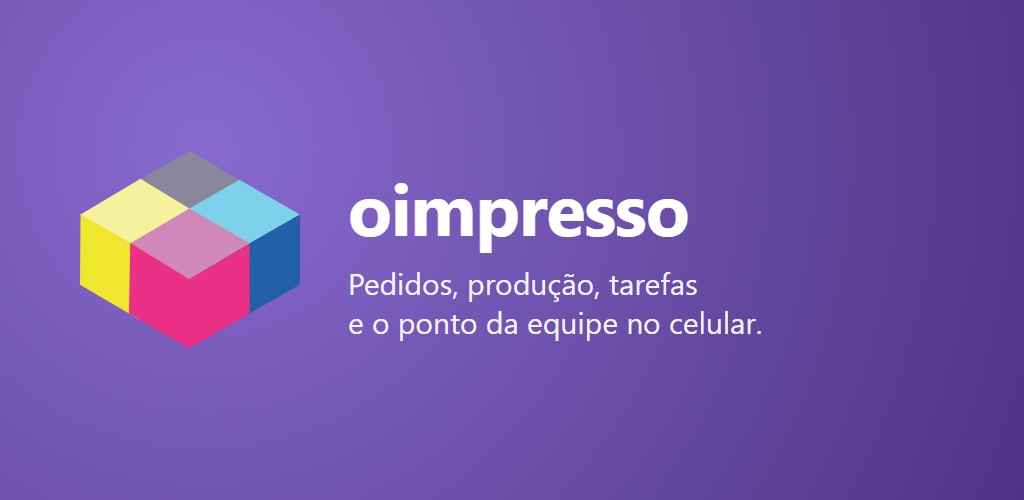
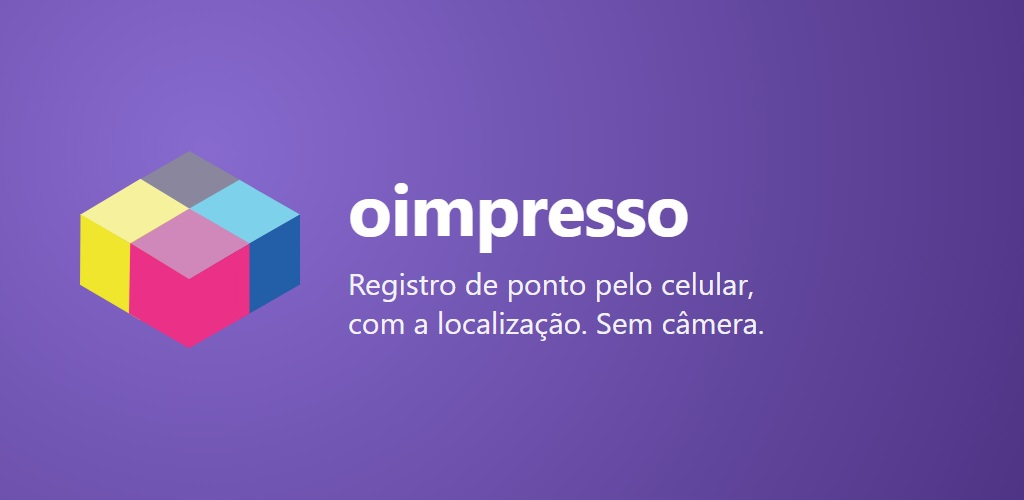
docs(lojas-app): 1ª submissão descreve só o que o app tem (ponto); versão completa guardada
Sessão que gerencia o app (2026-10-01): o app tem hoje Login, Início, Ponto (Bater,
Meu espelho, Justificar), Conta e lembrete por push; função ausente na ficha é motivo
de recusa. Textos e Data Safety da 1ª submissão só com o ponto; versões completas em
*-completa.md. D5 com a ordem das 3 decisões do dia; banner só do ponto.

Changed region(s): [[0.3438, 0.63, 0.75, 0.69], [0.3438, 0.54, 0.75, 0.6]]

diff --git a/docs/lojas-app/textos/listagem-pt-BR.md b/docs/lojas-app/textos/listagem-pt-BR.md
@@ -1,52 +1,48 @@
-# oimpresso — textos das lojas (pt-BR) · RASCUNHO para [W] revisar
+# oimpresso — textos das lojas (pt-BR) · 1ª SUBMISSÃO · RASCUNHO para [W] revisar
 
-> Escopo decidido por [W] em 2026-10-01: **um app só**, o ERP no celular **junto com o ponto** (`com.oimpresso.app`).
-> Base decidida por [W] (2026-10-01, coordenação): **Capacitor** (decisões vigentes em [`../DECISOES.md`](../DECISOES.md)); o Expo de `mobile/` fica fora das lojas.
-> **O que o app mostra (D5 em [`../DECISOES.md`](../DECISOES.md)):** telas próprias no `oimpresso-app`, visual do protótipo
-> Mobile (v1: Início, Tarefas, Pedidos, Produção, Pessoas, Ponto, Mais). Textos descrevem só essas funções — **não**
-> prometer Venda rápida, Finanças, OS, Estoque nem Fiscal até existirem no app.
-> ⚠ Levantamento legal (#8417): até INPI e certificado ICP-Brasil, **não** anunciar "REP-P", "REP" nem "registrador oficial" —
-> usar "registro de ponto do oimpresso". Limites conferidos em 2026-10-01 (Play Console Help + App Store Connect).
-> Não usar "certificado", "homologado" nem "assinado" até a sessão LEGAL confirmar (ADR 0413 tirou "assinada").
-> Só listar o que o build enviado faz de verdade — se o ponto ainda não estiver no build, tirar o bloco do ponto.
+> **Escopo da 1ª submissão = o que o app tem hoje** (sessão que gerencia o app, 2026-10-01): Login, Início (escala do
+> dia + indicadores do ponto), Ponto (Bater · Meu espelho · Justificar) e Conta, mais o lembrete de bater ponto (push).
+> Texto de loja que promete função ausente é motivo de recusa. A versão com Tarefas, Pedidos, Produção e Pessoas
+> fica em [`listagem-pt-BR-completa.md`](listagem-pt-BR-completa.md) para quando essas telas entrarem no app.
+> Decisões em [`../DECISOES.md`](../DECISOES.md). Sem "REP-P", "REP" nem "registrador oficial" (D9).
+> Limites conferidos em 2026-10-01 (Play Console Help + App Store Connect).
 
 ## Comum
-- **Nome do app:** `oimpresso` (9/30) — **decidido por [W] em 2026-10-01: "oimpresso nos dois"** (loja e aparelho). Reserva, só com ok [W], se o nome estiver ocupado na Apple: `oimpresso ERP` (13/30)
+- **Nome do app:** `oimpresso` (9/30) — decidido por [W] em 2026-10-01: "oimpresso nos dois".
 - **Categoria:** Negócios (Play: Business · Apple: primária Business, secundária Productivity)
 - **Público:** adultos, uso profissional (B2B). Sem anúncios. Sem compras no app.
 - **Login exigido:** sim — conta criada pela empresa. Sem cadastro aberto.
 
 ## Google Play
 - **Título:** `oimpresso` (9/30)
-- **Descrição curta:** `Pedidos, produção, tarefas, pessoas e ponto da sua empresa no celular.` (70/80)
+- **Descrição curta:** `Registro de ponto pelo celular, com a localização, no sistema da sua empresa.` (77/80)
 - **Descrição completa (≤4000):**
 
-O oimpresso leva para o celular o essencial do sistema da sua empresa: acompanhe pedidos e produção, resolva as tarefas do dia, consulte clientes e fornecedores, e registre o ponto com a localização do aparelho.
+O oimpresso é o registro de ponto pelo celular para quem trabalha em empresas que usam o sistema oimpresso.
 
-Gestão no celular:
-• Início — o resumo do dia da sua empresa.
-• Tarefas — as pendências que chegam de todos os setores, numa caixa só.
-• Pedidos — consulte e acompanhe cada pedido e a etapa em que está.
-• Produção — veja a fila de produção e o andamento de cada trabalho.
-• Pessoas — clientes, fornecedores e colaboradores num cadastro só.
-
-Registro de ponto do oimpresso:
+Entre com o acesso fornecido pela sua empresa e:
+• Veja no Início a sua escala do dia e o resumo do seu ponto.
 • Bata o ponto: entrada, saída para almoço, retorno e saída. Cada marcação vai com a localização do aparelho no momento do registro e recebe um número sequencial gerado pelo servidor; depois de feita, não pode ser alterada.
-• Veja as marcações de hoje e o seu espelho do mês.
-• Justifique uma falta ou esquecimento — o pedido vai para o seu gestor.
-• A localização é lida só quando você bate o ponto, com o app aberto. Sem rastreamento em segundo plano. Sem câmera e sem biometria no ponto.
+• Consulte o seu espelho do mês: horas trabalhadas e o dia a dia.
+• Justifique uma falta, atraso ou esquecimento — o pedido vai para aprovação do seu gestor.
+• Receba um lembrete na hora de bater o ponto.
 
-Para quem é: empresas clientes do oimpresso e seus colaboradores. O acesso é liberado pela empresa; não é possível criar conta pelo app. Cada pessoa vê só o que o seu perfil permite.
+Privacidade e transparência:
+• A localização é lida somente no momento em que você bate o ponto, com o app aberto. Não há rastreamento em segundo plano.
+• O app não usa câmera, foto nem biometria.
+• Se o sinal de GPS estiver fraco, o app pede que você vá para uma área aberta em vez de registrar uma posição imprecisa.
+
+Para quem é: colaboradores de empresas clientes do oimpresso. O acesso é liberado pela empresa; não é possível criar conta pelo app.
 
 ## Apple App Store
 - **Nome:** `oimpresso` (9/30)
-- **Subtítulo (30):** `Pedidos, produção e ponto` (25/30)
-- **Texto promocional (170):** `Pedidos, produção, tarefas e o ponto dos colaboradores no mesmo app. Ponto com localização, sem câmera e sem biometria.` (119/170)
-- **Palavras-chave (100):** `ERP,gestão,pedidos,produção,tarefas,clientes,fornecedores,ponto,jornada,gráfica,equipe` (86/100)
+- **Subtítulo (30):** `Ponto da equipe no celular` (26/30)
+- **Texto promocional (170):** `Bata o ponto com a localização do aparelho, veja o espelho do mês e justifique ausências. Sem câmera e sem biometria.` (117/170)
+- **Palavras-chave (100):** `ponto,registro,jornada,espelho,colaborador,RH,horas,marcação,GPS,funcionário,escala` (83/100)
 - **Descrição:** a mesma da Play acima.
 - **URL de privacidade:** `https://oimpresso.com/privacidade` (#8437)
-- **Informações para revisão:** conta demo da sessão CONTA DEMO (credencial só no campo do console). Nota: "Acesso B2B criado pela empresa. A tela de ponto pede localização; fora do local da empresa a marcação é aceita e sinalizada para o gestor."
+- **Informações para revisão:** contas e instruções em `memory/requisitos/Ponto/REVISAO-LOJAS-NOTAS.md` (credenciais só no campo do console).
 
 ## Classificação etária
-- **Apple (faixas 4+/9+/13+/16+/18+):** "Nenhum" em todo o questionário → **4+**. ⚠ Se a aba **Chat** passar a trocar mensagens entre pessoas, responder "Sim" a comunicação entre usuários (pode subir a faixa) — hoje o chat é com o sistema.
-- **Google (IARC):** "Todos os outros tipos de app"; "Não" a violência, sexo, linguagem, drogas, jogos de azar; "Não" a compartilhar localização com outros usuários (vai só ao empregador); interação entre usuários conforme o Chat acima. Esperado: **Livre (L)**.
+- **Apple (faixas 4+/9+/13+/16+/18+):** "Nenhum" em todo o questionário → **4+**.
+- **Google (IARC):** "Todos os outros tipos de app"; "Não" a violência, sexo, linguagem, drogas, jogos de azar; "Não" a compartilhar localização com outros usuários (vai só ao empregador); "Não" a interação entre usuários. Esperado: **Livre (L)**.

diff --git a/docs/lojas-app/textos/privacidade-lojas.md b/docs/lojas-app/textos/privacidade-lojas.md
@@ -1,54 +1,34 @@
-# oimpresso — Data Safety (Google) e App Privacy (Apple) · RASCUNHO
+# oimpresso — Data Safety (Google) e App Privacy (Apple) · 1ª SUBMISSÃO · RASCUNHO
 
-> App único (decisões em [`../DECISOES.md`](../DECISOES.md)): telas próprias do app (visual do protótipo Mobile) sobre o mesmo backend do ERP, empacotado com **Capacitor** (`com.oimpresso.app`) — decisão [W]
-> 2026-10-01 na coordenação; o Expo de `mobile/` fica fora das lojas. Levantado do código em main (2026-10-01):
-> - Ponto (`MobileMarcacaoController@registrar`): `lat`, `lng`, `accuracy` (não gravada), `device_uuid`, `timestamp_device`.
-> - ERP web: login do oimpresso (sessão), cadastro de clientes (nome, CPF/CNPJ, contato), anexos de OS escolhidos pelo usuário.
-> - App Capacitor medido em 2026-10-01 (repo [`wagnerra23/oimpresso-app`](https://github.com/wagnerra23/oimpresso-app), antes `oimpresso-ponto-app`, package.json + build.gradle, via sessão ANDROID):
->   **sem** Crashlytics/Analytics nem outro SDK de crash ou analytics; push só por FCM (`@capacitor/push-notifications`,
->   token = identificador do aparelho). Permissões: INTERNET, localização aproximada e precisa **só em uso**
->   (sem BACKGROUND), POST_NOTIFICATIONS. Sem CAMERA e sem microfone. Fotos de OS chegam pelo seletor de arquivos do
->   sistema dentro do ERP web (sem permissão de galeria).
-> - Prazo de guarda: sessão LEGAL.
-
-## O que entra
-
-| Dado | Onde | Obrigatório? | Finalidade |
-|---|---|---|---|
-| Localização precisa | ponto, só na batida | sim (para bater ponto) | funcionalidade; prevenção de fraude |
-| ID do aparelho (`device_uuid`) + token de push | ponto; notificações | sim | prevenção de fraude; funcionalidade |
-| Nome, e-mail, ID de usuário | login | sim | funcionalidade; gerenciamento de conta |
-| Dados de clientes da empresa (nome, CPF/CNPJ, telefone, e-mail, endereço) | cadastro de clientes | não (o usuário digita) | funcionalidade |
-| Fotos | anexos de OS, escolhidas pelo usuário | não | funcionalidade |
-| Registros de ponto, justificativas, notas de serviço, tarefas | ponto; OS; tarefas | varia | funcionalidade |
-| Transações da empresa (vendas, pagamentos) | vendas, financeiro | — | dado da empresa, não do usuário — ver nota abaixo |
-
-Tudo é ligado à pessoa, nada é vendido, usado para publicidade ou rastreamento. Os dados vão para o servidor do
-oimpresso (operador) por conta da empresa cliente (controladora). Sem localização em segundo plano.
+> **Só o que o app coleta hoje** (Login, Início, Ponto, Conta + lembrete por push — sessão que gerencia o app,
+> 2026-10-01). Telas próprias no `oimpresso-app` (React empacotado + API Passport do ERP). Quando Tarefas, Pedidos,
+> Produção e Pessoas entrarem, use [`privacidade-lojas-completa.md`](privacidade-lojas-completa.md) e atualize o console
+> **antes** de enviar a versão nova.
+>
+> Medido em 2026-10-01: ponto (`MobileMarcacaoController@registrar`) recebe `lat`, `lng`, `accuracy` (não gravada),
+> `device_uuid`, `timestamp_device`. App Capacitor ([`wagnerra23/oimpresso-app`](https://github.com/wagnerra23/oimpresso-app),
+> via sessão ANDROID): **sem** SDK de crash ou analytics; push só por FCM (token = identificador do aparelho); localização
+> **só em uso**, sem background; **sem** câmera e sem microfone. Prazo de guarda: sessão LEGAL.
 
 ## Google Play — Data Safety (tela a tela)
 1. **Coleta ou compartilha dados?** Sim.
-2. **Criptografado em trânsito?** Sim (HTTPS). **Pedido de exclusão?** Sim — URL da página de exclusão (sessão PRIVACIDADE); declarar que registros de ponto e fiscais são mantidos pelo prazo legal.
+2. **Criptografado em trânsito?** Sim (HTTPS). **Pedido de exclusão?** Sim — `https://oimpresso.com/privacidade/ponto/exclusao`; declarar que registros de ponto são mantidos pelo prazo legal.
 3. **Tipos (todos: Coletado · NÃO compartilhado · não efêmero):**
    - Localização → **Localização precisa** — Obrigatório · Funcionalidade do app; Prevenção de fraude, segurança e conformidade.
    - Informações pessoais → **Nome**, **Endereço de e-mail**, **IDs de usuário** — Obrigatório · Funcionalidade; Gerenciamento de conta.
-   - Informações pessoais → **Número de telefone**, **Endereço**, **Outras informações** (CPF/CNPJ) — Opcional · Funcionalidade (dados dos clientes cadastrados).
-   - Fotos e vídeos → **Fotos** — Opcional · Funcionalidade.
-   - Atividade no app → **Outro conteúdo gerado pelo usuário** (justificativas, notas de OS, tarefas) — Opcional · Funcionalidade.
-   - Identificadores do dispositivo ou outros → **ID do dispositivo** — Obrigatório · Prevenção de fraude; Funcionalidade (push).
-   - Informações financeiras → ⚠ decidir com a sessão LEGAL: vendas e pagamentos são da **empresa**, não do usuário; "Histórico de compras" da Google é do usuário. Recomendação: não marcar, e explicar na política de privacidade.
-4. **Permissões:** `ACCESS_FINE_LOCATION` (sim), `ACCESS_BACKGROUND_LOCATION` (**não**), `POST_NOTIFICATIONS` (sim), `RECORD_AUDIO` (**remover**), `CAMERA` (não usado).
+   - Atividade no app → **Outro conteúdo gerado pelo usuário** (justificativas) — Opcional · Funcionalidade.
+   - Identificadores do dispositivo ou outros → **ID do dispositivo** (identificador do aparelho + token de push) — Obrigatório · Prevenção de fraude; Funcionalidade.
+   - **Não** marcar: fotos, telefone, endereço, informações financeiras, contatos, mensagens, diagnóstico, analytics.
+4. **Permissões:** `ACCESS_FINE_LOCATION` e `ACCESS_COARSE_LOCATION` (sim), `ACCESS_BACKGROUND_LOCATION` (**não**), `POST_NOTIFICATIONS` (sim), sem `CAMERA` e sem `RECORD_AUDIO`.
 
 ## Apple — App Privacy (tela a tela)
 Todos: **Linked to the user** · **Not used for tracking** · finalidade **App Functionality**.
 - Location → **Precise Location**
-- Contact Info → **Name**, **Email Address**, **Phone Number**, **Physical Address**
+- Contact Info → **Name**, **Email Address**
 - Identifiers → **User ID**, **Device ID**
-- User Content → **Photos or Videos**, **Other User Content**
-- Sensitive Info → não marcar (CPF/CNPJ não é "sensível" no sentido Apple: saúde, religião etc.).
+- User Content → **Other User Content** (justificativas)
 - **Tracking (ATT):** não. Sem prompt ATT.
 
-`Info.plist` (via `app.config.ts`, sessão iOS):
+`Info.plist` (projeto `oimpresso-app`):
 - `NSLocationWhenInUseUsageDescription`: "O oimpresso usa a localização somente quando você bate o ponto, para registrar onde a marcação foi feita."
-- `NSPhotoLibraryUsageDescription`: "O oimpresso acessa as suas fotos somente quando você escolhe uma imagem para anexar a uma ordem de serviço."
-- **Remover** `NSMicrophoneUsageDescription` (expo-audio sem uso).
+- Sem `NSPhotoLibraryUsageDescription`, `NSCameraUsageDescription` e `NSMicrophoneUsageDescription` nesta versão.

diff --git a/docs/lojas-app/textos/privacidade-lojas-completa.md b/docs/lojas-app/textos/privacidade-lojas-completa.md
@@ -1,0 +1,57 @@
+# oimpresso — Data Safety e App Privacy · VERSÃO COMPLETA (futura) · RASCUNHO
+
+> ⏸ **Não usar na 1ª submissão** — declara dados de telas que o app ainda não tem. Até lá use
+> [`privacidade-lojas.md`](privacidade-lojas.md).
+
+> App único (decisões em [`../DECISOES.md`](../DECISOES.md)): telas próprias do app (visual do protótipo Mobile) sobre o mesmo backend do ERP, empacotado com **Capacitor** (`com.oimpresso.app`) — decisão [W]
+> 2026-10-01 na coordenação; o Expo de `mobile/` fica fora das lojas. Levantado do código em main (2026-10-01):
+> - Ponto (`MobileMarcacaoController@registrar`): `lat`, `lng`, `accuracy` (não gravada), `device_uuid`, `timestamp_device`.
+> - ERP web: login do oimpresso (sessão), cadastro de clientes (nome, CPF/CNPJ, contato), anexos de OS escolhidos pelo usuário.
+> - App Capacitor medido em 2026-10-01 (repo [`wagnerra23/oimpresso-app`](https://github.com/wagnerra23/oimpresso-app), antes `oimpresso-ponto-app`, package.json + build.gradle, via sessão ANDROID):
+>   **sem** Crashlytics/Analytics nem outro SDK de crash ou analytics; push só por FCM (`@capacitor/push-notifications`,
+>   token = identificador do aparelho). Permissões: INTERNET, localização aproximada e precisa **só em uso**
+>   (sem BACKGROUND), POST_NOTIFICATIONS. Sem CAMERA e sem microfone. Fotos de OS chegam pelo seletor de arquivos do
+>   sistema dentro do ERP web (sem permissão de galeria).
+> - Prazo de guarda: sessão LEGAL.
+
+## O que entra
+
+| Dado | Onde | Obrigatório? | Finalidade |
+|---|---|---|---|
+| Localização precisa | ponto, só na batida | sim (para bater ponto) | funcionalidade; prevenção de fraude |
+| ID do aparelho (`device_uuid`) + token de push | ponto; notificações | sim | prevenção de fraude; funcionalidade |
+| Nome, e-mail, ID de usuário | login | sim | funcionalidade; gerenciamento de conta |
+| Dados de clientes da empresa (nome, CPF/CNPJ, telefone, e-mail, endereço) | cadastro de clientes | não (o usuário digita) | funcionalidade |
+| Fotos | anexos de OS, escolhidas pelo usuário | não | funcionalidade |
+| Registros de ponto, justificativas, notas de serviço, tarefas | ponto; OS; tarefas | varia | funcionalidade |
+| Transações da empresa (vendas, pagamentos) | vendas, financeiro | — | dado da empresa, não do usuário — ver nota abaixo |
+
+Tudo é ligado à pessoa, nada é vendido, usado para publicidade ou rastreamento. Os dados vão para o servidor do
+oimpresso (operador) por conta da empresa cliente (controladora). Sem localização em segundo plano.
+
+## Google Play — Data Safety (tela a tela)
+1. **Coleta ou compartilha dados?** Sim.
+2. **Criptografado em trânsito?** Sim (HTTPS). **Pedido de exclusão?** Sim — URL da página de exclusão (sessão PRIVACIDADE); declarar que registros de ponto e fiscais são mantidos pelo prazo legal.
+3. **Tipos (todos: Coletado · NÃO compartilhado · não efêmero):**
+   - Localização → **Localização precisa** — Obrigatório · Funcionalidade do app; Prevenção de fraude, segurança e conformidade.
+   - Informações pessoais → **Nome**, **Endereço de e-mail**, **IDs de usuário** — Obrigatório · Funcionalidade; Gerenciamento de conta.
+   - Informações pessoais → **Número de telefone**, **Endereço**, **Outras informações** (CPF/CNPJ) — Opcional · Funcionalidade (dados dos clientes cadastrados).
+   - Fotos e vídeos → **Fotos** — Opcional · Funcionalidade.
+   - Atividade no app → **Outro conteúdo gerado pelo usuário** (justificativas, notas de OS, tarefas) — Opcional · Funcionalidade.
+   - Identificadores do dispositivo ou outros → **ID do dispositivo** — Obrigatório · Prevenção de fraude; Funcionalidade (push).
+   - Informações financeiras → ⚠ decidir com a sessão LEGAL: vendas e pagamentos são da **empresa**, não do usuário; "Histórico de compras" da Google é do usuário. Recomendação: não marcar, e explicar na política de privacidade.
+4. **Permissões:** `ACCESS_FINE_LOCATION` (sim), `ACCESS_BACKGROUND_LOCATION` (**não**), `POST_NOTIFICATIONS` (sim), `RECORD_AUDIO` (**remover**), `CAMERA` (não usado).
+
+## Apple — App Privacy (tela a tela)
+Todos: **Linked to the user** · **Not used for tracking** · finalidade **App Functionality**.
+- Location → **Precise Location**
+- Contact Info → **Name**, **Email Address**, **Phone Number**, **Physical Address**
+- Identifiers → **User ID**, **Device ID**
+- User Content → **Photos or Videos**, **Other User Content**
+- Sensitive Info → não marcar (CPF/CNPJ não é "sensível" no sentido Apple: saúde, religião etc.).
+- **Tracking (ATT):** não. Sem prompt ATT.
+
+`Info.plist` (via `app.config.ts`, sessão iOS):
+- `NSLocationWhenInUseUsageDescription`: "O oimpresso usa a localização somente quando você bate o ponto, para registrar onde a marcação foi feita."
+- `NSPhotoLibraryUsageDescription`: "O oimpresso acessa as suas fotos somente quando você escolhe uma imagem para anexar a uma ordem de serviço."
+- **Remover** `NSMicrophoneUsageDescription` (expo-audio sem uso).

diff --git a/docs/lojas-app/textos/listagem-pt-BR-completa.md b/docs/lojas-app/textos/listagem-pt-BR-completa.md
@@ -1,0 +1,55 @@
+# oimpresso — textos das lojas (pt-BR) · VERSÃO COMPLETA (futura) · RASCUNHO
+
+> ⏸ **Não usar na 1ª submissão** — promete Tarefas, Pedidos, Produção e Pessoas, que o app ainda não tem
+> (sessão que gerencia o app, 2026-10-01). Vale quando essas telas entrarem; até lá use [`listagem-pt-BR.md`](listagem-pt-BR.md).
+
+> Escopo decidido por [W] em 2026-10-01: **um app só**, o ERP no celular **junto com o ponto** (`com.oimpresso.app`).
+> Base decidida por [W] (2026-10-01, coordenação): **Capacitor** (decisões vigentes em [`../DECISOES.md`](../DECISOES.md)); o Expo de `mobile/` fica fora das lojas.
+> **O que o app mostra (D5 em [`../DECISOES.md`](../DECISOES.md)):** telas próprias no `oimpresso-app`, visual do protótipo
+> Mobile (v1: Início, Tarefas, Pedidos, Produção, Pessoas, Ponto, Mais). Textos descrevem só essas funções — **não**
+> prometer Venda rápida, Finanças, OS, Estoque nem Fiscal até existirem no app.
+> ⚠ Levantamento legal (#8417): até INPI e certificado ICP-Brasil, **não** anunciar "REP-P", "REP" nem "registrador oficial" —
+> usar "registro de ponto do oimpresso". Limites conferidos em 2026-10-01 (Play Console Help + App Store Connect).
+> Não usar "certificado", "homologado" nem "assinado" até a sessão LEGAL confirmar (ADR 0413 tirou "assinada").
+> Só listar o que o build enviado faz de verdade — se o ponto ainda não estiver no build, tirar o bloco do ponto.
+
+## Comum
+- **Nome do app:** `oimpresso` (9/30) — **decidido por [W] em 2026-10-01: "oimpresso nos dois"** (loja e aparelho). Reserva, só com ok [W], se o nome estiver ocupado na Apple: `oimpresso ERP` (13/30)
+- **Categoria:** Negócios (Play: Business · Apple: primária Business, secundária Productivity)
+- **Público:** adultos, uso profissional (B2B). Sem anúncios. Sem compras no app.
+- **Login exigido:** sim — conta criada pela empresa. Sem cadastro aberto.
+
+## Google Play
+- **Título:** `oimpresso` (9/30)
+- **Descrição curta:** `Pedidos, produção, tarefas, pessoas e ponto da sua empresa no celular.` (70/80)
+- **Descrição completa (≤4000):**
+
+O oimpresso leva para o celular o essencial do sistema da sua empresa: acompanhe pedidos e produção, resolva as tarefas do dia, consulte clientes e fornecedores, e registre o ponto com a localização do aparelho.
+
+Gestão no celular:
+• Início — o resumo do dia da sua empresa.
+• Tarefas — as pendências que chegam de todos os setores, numa caixa só.
+• Pedidos — consulte e acompanhe cada pedido e a etapa em que está.
+• Produção — veja a fila de produção e o andamento de cada trabalho.
+• Pessoas — clientes, fornecedores e colaboradores num cadastro só.
+
+Registro de ponto do oimpresso:
+• Bata o ponto: entrada, saída para almoço, retorno e saída. Cada marcação vai com a localização do aparelho no momento do registro e recebe um número sequencial gerado pelo servidor; depois de feita, não pode ser alterada.
+• Veja as marcações de hoje e o seu espelho do mês.
+• Justifique uma falta ou esquecimento — o pedido vai para o seu gestor.
+• A localização é lida só quando você bate o ponto, com o app aberto. Sem rastreamento em segundo plano. Sem câmera e sem biometria no ponto.
+
+Para quem é: empresas clientes do oimpresso e seus colaboradores. O acesso é liberado pela empresa; não é possível criar conta pelo app. Cada pessoa vê só o que o seu perfil permite.
+
+## Apple App Store
+- **Nome:** `oimpresso` (9/30)
+- **Subtítulo (30):** `Pedidos, produção e ponto` (25/30)
+- **Texto promocional (170):** `Pedidos, produção, tarefas e o ponto dos colaboradores no mesmo app. Ponto com localização, sem câmera e sem biometria.` (119/170)
+- **Palavras-chave (100):** `ERP,gestão,pedidos,produção,tarefas,clientes,fornecedores,ponto,jornada,gráfica,equipe` (86/100)
+- **Descrição:** a mesma da Play acima.
+- **URL de privacidade:** `https://oimpresso.com/privacidade` (#8437)
+- **Informações para revisão:** conta demo da sessão CONTA DEMO (credencial só no campo do console). Nota: "Acesso B2B criado pela empresa. A tela de ponto pede localização; fora do local da empresa a marcação é aceita e sinalizada para o gestor."
+
+## Classificação etária
+- **Apple (faixas 4+/9+/13+/16+/18+):** "Nenhum" em todo o questionário → **4+**. ⚠ Se a aba **Chat** passar a trocar mensagens entre pessoas, responder "Sim" a comunicação entre usuários (pode subir a faixa) — hoje o chat é com o sistema.
+- **Google (IARC):** "Todos os outros tipos de app"; "Não" a violência, sexo, linguagem, drogas, jogos de azar; "Não" a compartilhar localização com outros usuários (vai só ao empregador); interação entre usuários conforme o Chat acima. Esperado: **Livre (L)**.

diff --git a/docs/lojas-app/DECISOES.md b/docs/lojas-app/DECISOES.md
@@ -11,11 +11,11 @@
 | D2 | ID do app | `com.oimpresso.app` (Android e iOS; permanente depois do 1º envio) | [W] via sessão Android |
 | D3 | Nome | **`oimpresso`** na loja e embaixo do ícone | [W] "oimpresso nos dois" |
 | D4 | Ícone | **A** — só o cubo CMYK no roxo `#795BBF`; splash roxo com o cubo | [W] "icone A" |
-| D5 | O que o app mostra | **Telas próprias dentro do `oimpresso-app`**, no visual do protótipo Mobile (v1: Início, Tarefas, Pedidos, Produção, Pessoas, Ponto, Mais). **Não** o site do ERP e **não** `/m` no ERP | [W] via sessão "Construir a base do app Mobile" (gestora das sessões do app), 2026-10-01; revert do `/m` no #8472 |
+| D5 | O que o app mostra | **Telas próprias no `oimpresso-app`** (React empacotado + API Passport do ERP), visual do protótipo Mobile. Ordem do dia 2026-10-01: (1) ERP web atual → (2) `/m` no ERP → (3) **telas próprias**; o `/m` foi reprovado e revertido (#8472) | [W] via sessão que gerencia o app |
 | D6 | Ponto do colaborador | Perfil **Colaborador** abre direto no ponto; quem tem o ERP vê as abas da v1 | [W] "sim, perfil colaborador abre no ponto" |
 | D7 | Contas do revisor | Duas: **`revisor.ponto`** (colaborador, só ponto) e **`gestor.demo`** (gestor), no business 235 em produção. Senhas no Vaultwarden (`ponto-demo-revisor`, `ponto-demo-gestor`) | [W] "ok duas contas, colaborador e gestor" |
 | D8 | Marcações de exemplo | Histórico de marcações **só no staging**; produção só com o que o revisor fizer | [W] "marcações só no staging" |
-| D9 | Textos de loja | Descrevem só as funções da v1. **Sem** "REP-P", "REP" ou "registrador oficial" até INPI e certificado ICP-Brasil | levantamento legal (#8417) |
+| D9 | Textos de loja | **1ª submissão descreve só o que o app tem hoje:** Login, Início (escala + resumo do ponto), Ponto (Bater · Meu espelho · Justificar), Conta e lembrete por push (`textos/listagem-pt-BR.md`). A versão com Tarefas/Pedidos/Produção/Pessoas fica em `textos/listagem-pt-BR-completa.md`. **Sem** "REP-P", "REP" ou "registrador oficial" até INPI e certificado ICP-Brasil | sessão que gerencia o app (função ausente = recusa); levantamento legal (#8417) |
 | D10 | Política de privacidade | `https://oimpresso.com/privacidade` (app inteiro) + `/privacidade/ponto` (detalhe do ponto) | [W] "fica com a política"; no ar desde #8437 |
 
 ## Substituídas (não usar)
@@ -34,4 +34,4 @@
 | Mover as senhas das contas demo para o Vaultwarden | [W] |
 | Pacote de módulos "Demo lojas" para o `gestor.demo` | [W] |
 | Revisão jurídica de `/privacidade` e `/privacidade/ponto`; confirmar `lgpd@oimpresso.com.br` | Eliana [E] + [W] |
-| Screenshots (Android 1080×1920, iPhone 6.9" 1320×2868) — do build demo do `oimpresso-app` | sessão ATIVOS DE LOJA |
+| Screenshots (Android 1080×1920, iPhone 6.9" 1320×2868) — do build demo do `oimpresso-app` no emulador, **depois** que as 4 telas passarem para o design-v4 (não fotografar as v3) | sessão ATIVOS DE LOJA, após a sessão APP CAPACITOR |

diff --git a/docs/lojas-app/GUIA-PLAY-CONSOLE.md b/docs/lojas-app/GUIA-PLAY-CONSOLE.md
@@ -17,7 +17,7 @@ Caminho: **Painel → "Termine de configurar seu app" → Ver tarefas**. Ordem s
 | 5 | **Público-alvo** | Faixa etária: só **18 anos ou mais**. "O app pode atrair crianças?": Não | ✅ |
 | 6 | **Classificação de conteúdo** | E-mail de contato; categoria **"Todos os outros tipos de app"**; "Não" para violência, sexo, linguagem, drogas, jogos de azar; "compartilha localização com outros usuários?": **Não** (vai só ao empregador); "usuários interagem entre si?": Não. Esperado: **Livre (L)** | ✅ |
 | 7 | **Acesso ao app** ("Detalhes do login") | "Todas ou algumas funcionalidades estão restritas". Usuários `revisor.ponto` (colaborador) e `gestor.demo` (gestor); senhas dos itens `ponto-demo-revisor` e `ponto-demo-gestor` do Vaultwarden; instruções: copiar de [`memory/requisitos/Ponto/REVISAO-LOJAS-NOTAS.md`](../../memory/requisitos/Ponto/REVISAO-LOJAS-NOTAS.md) (PT e EN) | ✅ contas criadas em produção (business 235, 2026-10-01). ⏳ falta só [W] mover as senhas para o Vaultwarden. O gestor vê só os módulos básicos até existir o pacote "Demo lojas" |
-| 8 | **Segurança dos dados** | Seguir `textos/privacidade-lojas.md` §Google: localização precisa, nome, e-mail, IDs de usuário, telefone/endereço/outras info (clientes), fotos, outro conteúdo, ID do dispositivo — todos **coletados, não compartilhados**, criptografados em trânsito, com pedido de exclusão | ✅ medido 2026-10-01: sem SDK de crash/analytics, push só FCM → **não** marcar "Diagnóstico" nem analytics |
+| 8 | **Segurança dos dados** | Seguir `textos/privacidade-lojas.md` (1ª submissão): localização precisa, nome, e-mail, IDs de usuário, justificativas, ID do dispositivo — todos **coletados, não compartilhados**, criptografados em trânsito, com pedido de exclusão. **Não** marcar fotos, telefone, endereço, financeiro, diagnóstico nem analytics | ✅ medido 2026-10-01 |
 | 9 | **Política de Privacidade** | `https://oimpresso.com/privacidade` (cobre ERP + ponto) | ✅ `https://oimpresso.com/privacidade` no ar (#8437, 200 sem login em 2026-10-01). ⏳ revisão da Eliana [E] e e-mail `lgpd@oimpresso.com.br` confirmado antes de colar |
 | 10 | **Página "Detalhes do app"** | Nome `oimpresso`; descrição curta e longa de `textos/listagem-pt-BR.md`; ícone `play-icon-512.png`; banner `play-feature-graphic-1024x500.jpg`; categoria **Empresas**; e-mail de contato | ⏳ screenshots (mín. 2; 4 de 1080×1920 para destaque) |
 
